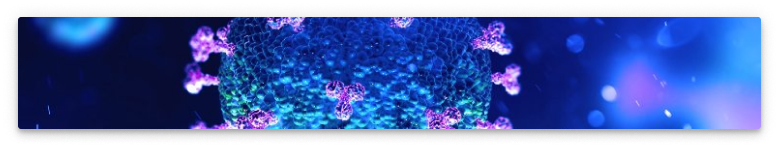
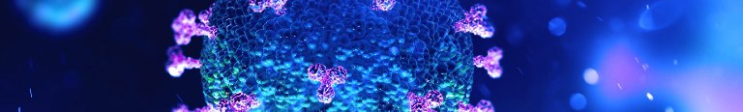
added covid.png to  header

diff --git a/src/components/Header/Header.jsx b/src/components/Header/Header.jsx
@@ -1,26 +1,30 @@
 import SectionHeader from 'components/common/SectionHeader'
 import Covid from 'components/common/Covid.jsx'
-import styled from 'styled-components'
+import styled,{css} from 'styled-components'
+import { covidMain } from 'img'
 import React from 'react'
 
-
 const Wrapper = styled.div`
+position:relative;
 height:135px;
-width:100vw;
+width:100%;
 `
 const Image = styled.div`
-
+background-image:url(${covidMain});
+background-repeat: no-repeat;
+margin:40px 5vw 0 auto;
+background-size: 100% ;
+height:20vw;
+width:80%;
 `
 
 
 export default function Header() {
     return (
         <Wrapper>
-           <SectionHeader>Header</SectionHeader>
-           <Image></Image>
-           <Covid></Covid>
-
-            
+            <SectionHeader headerStyle >Covid-19 Data Explorer</SectionHeader>
+            <Image></Image>
+            {/* <Covid size={30}></Covid> */}
         </Wrapper>
     )
 }
